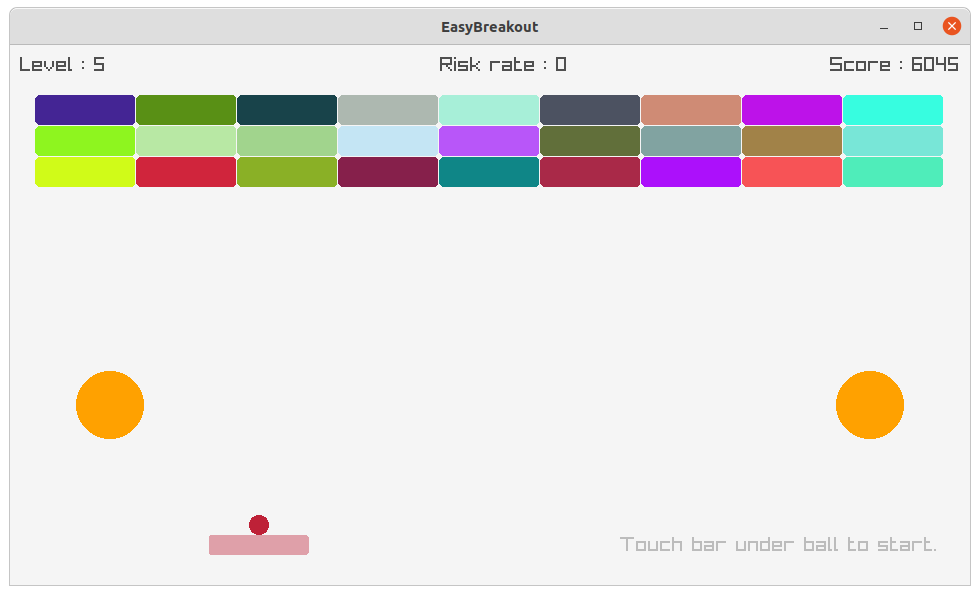
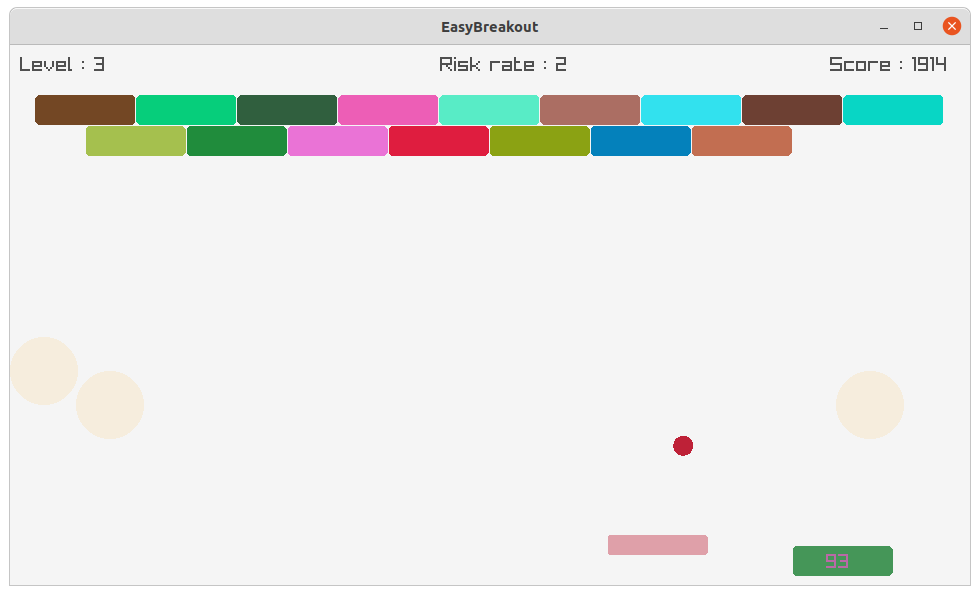
Add hit-back control and fix bugs

diff --git a/src/EasyBreakout.cpp b/src/EasyBreakout.cpp
@@ -58,7 +58,8 @@ int main(void)
     const Sound button_sound = LoadSound(button_sound_file_name);
     const Sound hit_bar_sound = LoadSound(hit_bar_sound_file_name);     // Load hitting bar audio file
     const Sound hit_block_sound = LoadSound(hit_block_sound_file_name); // Load hitting block audio file
-    SetSoundVolume(hit_bar_sound, 0.5f);
+    SetMasterVolume(0.1f);
+    // SetSoundVolume(hit_bar_sound, 0.1f);
     // Music background_sound = LoadMusicStream("./resources/audio/background.wav");  // Load background sound audio file
     // background_sound.looping = true;
     // SetMusicVolume(background_sound, BACKGROUND_SOUND_VOLUMN);
@@ -193,15 +194,22 @@ void UpdateDrawFrame()
         if (IsKeyDown(KEY_ESCAPE))
             player->set_state(kIntro);
 
+        bool has_gesture = false; // For mobile device
+
         // Moving playing bat
         if (WindowManager::IsMobile())
         {
             hud->set_last_gesture(hud->current_gesture());
             hud->set_current_gesture(GetGestureDetected());
-            if (hud->current_gesture() != hud->last_gesture() && (hud->current_gesture() == GESTURE_TAP || hud->current_gesture() == GESTURE_HOLD))
+            if (hud->current_gesture() != hud->last_gesture() && (hud->current_gesture() == GESTURE_TAP || hud->current_gesture() == GESTURE_HOLD || hud->current_gesture() == GESTURE_DOUBLETAP || hud->current_gesture() == GESTURE_DRAG))
             {
-                playingBar->Move(*hud);
+                has_gesture = true;
             }
+        }
+
+        if (WindowManager::IsMobile() && has_gesture)
+        {
+            playingBar->Move(*hud);
         }
         else
         {
@@ -240,7 +248,16 @@ void UpdateDrawFrame()
         if (ball->IsCollided(play_bar_shape) && !ball->is_held())
         {
             ball->PlayHitBarSound();
-            ball->Collide(play_bar_shape, level->get_level_num());
+
+            // Hit back in the same direction
+            if (WindowManager::IsMobile() && has_gesture)
+            {
+                ball->Collide(*hud, play_bar_shape, level->get_level_num());
+            }
+            else
+            {
+                ball->Collide(play_bar_shape, level->get_level_num());
+            }
         }
 
         // When the ball hits blocks

diff --git a/src/HUD.h b/src/HUD.h
@@ -12,28 +12,43 @@
 
 #include "raylib.h"
 
-#include "TouchPoint.h"
+#include "ControlPoint.h"
+
+inline Vector2 left_control_position()
+{
+	return (Vector2){100 * WindowManager::scale().x, WindowManager::window_size().height - WindowManager::window_size().height / 3.0f};
+}
+
+inline Vector2 right_control_position()
+{
+	return (Vector2){WindowManager::window_size().width - 100 * WindowManager::scale().x, WindowManager::window_size().height - WindowManager::window_size().height / 3.0f};
+}
+
+inline Vector2 hit_back_control_position()
+{
+	return (Vector2){ControlPoint::kDefaultRadius * WindowManager::scale().x, WindowManager::window_size().height - WindowManager::window_size().height / 3.0f - ControlPoint::kDefaultRadius * WindowManager::scale().x};
+}
 
 class HUD
 {
 public:
-	HUD();
-
 	int current_gesture() { return current_gesture_; }
 	int last_gesture() { return last_gesture_; }
-	const TouchPoint &left_touch_point() const { return left_touch_point_; }
-	const TouchPoint &right_touch_point() const { return right_touch_point_; }
+	const ControlPoint &left_control() const { return left_control_; }
+	const ControlPoint &right_control() const { return right_control_; }
+	const ControlPoint &hit_back_control() const { return hit_back_control_; }
 	void set_current_gesture(int gesture) { current_gesture_ = gesture; }
 	void set_last_gesture(int gesture) { current_gesture_ = gesture; }
 
-	bool IsTouchPointTouched(const TouchPoint &tp) const;
+	bool IsControlPointTouched(const ControlPoint &tp) const;
 	void Draw();
 
 private:
 	int current_gesture_ = GESTURE_NONE;
 	int last_gesture_ = GESTURE_NONE;
-	TouchPoint left_touch_point_;
-	TouchPoint right_touch_point_;
+	ControlPoint left_control_ = ControlPoint(left_control_position());			// Move to left
+	ControlPoint right_control_ = ControlPoint(right_control_position());		// Move to right
+	ControlPoint hit_back_control_ = ControlPoint(hit_back_control_position()); // Hit ball back to the same direction
 };
 
 #endif // HUD_H_

diff --git a/src/HUD.cpp b/src/HUD.cpp
@@ -7,13 +7,7 @@
 
 #include "HUD.h"
 
-HUD::HUD()
-{
-    left_touch_point_.set_position((Vector2){100 * WindowManager::scale().x, WindowManager::window_size().height - WindowManager::window_size().height / 3.0f});
-    right_touch_point_.set_position((Vector2){WindowManager::window_size().width - 100 * WindowManager::scale().x, WindowManager::window_size().height - WindowManager::window_size().height / 3.0f});
-}
-
-bool HUD::IsTouchPointTouched(const TouchPoint &tp) const
+bool HUD::IsControlPointTouched(const ControlPoint &tp) const
 {
     const Vector2 position = tp.get_position();
     return GetTouchX() >= position.x - tp.get_shape().get_radius() && GetTouchX() <= position.x + tp.get_shape().get_radius() && GetTouchY() >= position.y - tp.get_shape().get_radius() && GetTouchY() <= position.y + tp.get_shape().get_radius() ? true : false;
@@ -21,7 +15,8 @@ bool HUD::IsTouchPointTouched(const TouchPoint &tp) const
 
 void HUD::Draw()
 {
-    // Draw touch points
-    left_touch_point_.Draw();
-    right_touch_point_.Draw();
+    // Draw control points
+    hit_back_control_.Draw();
+    left_control_.Draw();
+    right_control_.Draw();
 }

diff --git a/src/ControlPoint.cpp b/src/ControlPoint.cpp
@@ -1,0 +1,39 @@
+/*
+ * ControlPoint.cpp
+ *
+ *  Created on: Oct. 07, 2023
+ *      Author: Dong Won Kim
+ */
+
+#include "ControlPoint.h"
+
+const Color ControlPoint::kDefaultColor = Fade(ORANGE, 0.1f);
+
+ControlPoint::ControlPoint() : GraphicsEntity<Circle>(circle(), (Vector2){0.0f, 0.0f}), color(kDefaultColor)
+{
+    auto shape = get_shape();
+    set_shape(Scale(std::move(shape)));
+}
+
+ControlPoint::ControlPoint(const Vector2 &position) : GraphicsEntity<Circle>(circle(), position), color(kDefaultColor)
+{
+    auto shape = get_shape();
+    set_shape(Scale(std::move(shape)));
+}
+
+ControlPoint::ControlPoint(const Color &color, float radius, const Vector2 &position) : GraphicsEntity<Circle>(circle(radius), position), color(color)
+{
+    auto shape = get_shape();
+    set_shape(Scale(std::move(shape)));
+}
+
+Circle ControlPoint::Scale(Circle &&circle)
+{
+    circle.set_radius(circle.get_radius() * WindowManager::scale().x);
+    return std::move(circle);
+}
+
+void ControlPoint::Draw()
+{
+    DrawCircleV(get_position(), this->get_shape().get_radius(), color);
+}

diff --git a/src/WindowManager.h b/src/WindowManager.h
@@ -69,12 +69,13 @@ public:
 		height = height > kWindowMaxHeight ? kWindowMaxHeight : height;
 		return (Size){width, height};
 	}
-	static const Vector2 scale() { return (Vector2){kWindowWidth / 960.0f, kWindowHeight / 540.0f}; }
+	constexpr static Vector2 scale() { return (Vector2){kWindowWidth / 960.0f, kWindowHeight / 540.0f}; }
 #else
 	static const Vector2 scale() { return kScale; }
 #endif
-	static const Size window_size() { return (Size){kWindowWidth, kWindowHeight}; }
-	static const bool IsMobile() { return kWindowWidth < 640 ? true : false; }
+	constexpr static Size window_size() { return (Size){kWindowWidth, kWindowHeight}; }
+	constexpr static bool IsMobile() { return kWindowWidth <= 800 ? true : false; }
+	// static const bool IsMobile() { return true; }
 	static void DisplayText(const DisplayArea &display_area, const char *text, int pos_x, int pos_y, int font_size, const Color &color);
 
 private:

diff --git a/src/ControlPoint.h b/src/ControlPoint.h
@@ -1,0 +1,44 @@
+/*
+ * ControlPoint.h
+ *
+ *  Created on: Oct. 07, 2023
+ *      Author: Dong Won Kim
+ */
+
+#ifndef CONTROL_POINT_H_
+#define CONTROL_POINT_H_
+
+#include "raylib.h"
+
+#include "GraphicsEntity.h"
+#include "Circle.h"
+
+class ControlPoint : public GraphicsEntity<Circle>
+{
+public:
+    constexpr static float kDefaultRadius = 34.0f; // Control point radius
+
+    ControlPoint();
+    ControlPoint(const Vector2 &position);
+    ControlPoint(const Color &color, float radius, const Vector2 &position);
+
+    void Draw() override;
+    Circle Scale(Circle &&shape) override;
+
+private:
+    const static Color kDefaultColor;
+
+    Color color;
+
+    static Circle circle()
+    {
+        return std::move(Circle(kDefaultRadius));
+    }
+
+    static Circle circle(float radius)
+    {
+        return std::move(Circle(radius));
+    }
+};
+
+#endif // CONTROL_POINT_H_

diff --git a/src/Ball.h b/src/Ball.h
@@ -16,6 +16,7 @@
 #include "WindowManager.h"
 #include "MovingEntity.h"
 #include "GraphicsEntity.h"
+#include "HUD.h"
 #include "Circle.h"
 #include "Block.h"
 
@@ -50,8 +51,12 @@ public:
 
 	// Checking collision with blocks and returning the block number hit, otherwise returning -1
 	int CollidedBlock(Block *blocks, int number_of_blocks);
-	void Collide(const Rectangle &rec, int level_num); // Colliding with playing bar
-	void PlayHitBarSound() { PlaySound(hit_bar_sound); }
+	void Collide(const Rectangle &rec, int level_num);				   // Colliding with playing bar
+	void Collide(const HUD &hud, const Rectangle &rec, int level_num); // Colliding with playing bar for mobile
+	void PlayHitBarSound()
+	{
+		PlaySound(hit_bar_sound);
+	}
 	void PlayHitBlockSound() { PlaySound(hit_block_sound); }
 
 	Circle Scale(Circle &&shape) override;

diff --git a/src/Ball.cpp b/src/Ball.cpp
@@ -106,11 +106,28 @@ void Ball::Collide(const Rectangle &rec, const Vector2 &speed)
 }
 
 // Colliding with playing bar
+void Ball::Collide(const HUD &hud, const Rectangle &rec, int level_num)
+{
+	const auto speed = get_speed();
+
+	if (!held && hud.IsControlPointTouched(hud.hit_back_control())) // Hit back in the same direction
+	{
+		Collide(rec, (Vector2){speed.x * -1.0f, speed.y});
+	}
+	else
+	{
+		Collide(rec, (Vector2){RandomSpeedX(speed, level_num), speed.y});
+	}
+
+	enabled = true; // It is enabled again when it hits playing bar
+	risk_rate = 0;
+}
+
 void Ball::Collide(const Rectangle &rec, int level_num)
 {
 	const auto speed = get_speed();
 
-	if (!held && IsKeyDown(KEY_SPACE))
+	if (!held && IsKeyDown(KEY_SPACE)) // Hit back in the same direction
 	{
 		Collide(rec, (Vector2){speed.x * -1.0f, speed.y});
 	}

diff --git a/src/Button.h b/src/Button.h
@@ -47,7 +47,7 @@ private:
     ButtonState state = kNormal;
     bool activated = false;
 
-    static float frame_height(const Texture2D &button)
+    constexpr static float frame_height(const Texture2D &button)
     {
         return (float)button.height / kNumberOfFrames;
     }
@@ -57,7 +57,7 @@ private:
         return (Rectangle){WindowManager::window_size().width / 2 + pos_x * WindowManager::scale().x, WindowManager::window_size().height / 2 - height / 2, width, height};
     }
 
-    static Rectangle rectangle(float width, float height, const Vector2 &position)
+    constexpr static Rectangle rectangle(float width, float height, const Vector2 &position)
     {
         return (Rectangle){position.x, position.y, width, height};
     }

diff --git a/src/PlayingBar.cpp b/src/PlayingBar.cpp
@@ -42,13 +42,13 @@ void PlayingBar::Move(const HUD &hud)
 {
 	auto pos_x = get_position_x();
 
-	if (hud.IsTouchPointTouched(hud.left_touch_point()) && pos_x > 0.0f)
+	if (hud.IsControlPointTouched(hud.left_control()) && pos_x > 0.0f)
 	{
 		pos_x -= get_speed_x();
 		set_position_x(pos_x);
 	}
 
-	if (hud.IsTouchPointTouched(hud.right_touch_point()) && pos_x < (WindowManager::window_size().width - kPlayingBarSize.width * WindowManager::scale().x))
+	if (hud.IsControlPointTouched(hud.right_control()) && pos_x < (WindowManager::window_size().width - kPlayingBarSize.width * WindowManager::scale().x))
 	{
 		pos_x += get_speed_x();
 		set_position_x(pos_x);

diff --git a/src/Button.cpp b/src/Button.cpp
@@ -4,6 +4,7 @@
  *  Created on: Sep. 26, 2023
  *      Author: Dong Won Kim
  */
+
 #include "Button.h"
 
 Button::Button(const Texture2D &button, float pos_x) : GraphicsEntity<Rectangle>(rectangle((float)button.width, frame_height(button), pos_x), position(frame_height(button), pos_x)), button(button), source_rectangle((Rectangle){0, 0, (float)button.width, frame_height(button)})

diff --git a/src/RoundedRect.h b/src/RoundedRect.h
@@ -31,7 +31,7 @@ private:
 	float roundness = 0.2f;
 	float segments = 0.0f;
 
-	static Vector2 position(const Rectangle &rec, float pos_y)
+	constexpr static Vector2 position(const Rectangle &rec, float pos_y)
 	{
 		return (Vector2){WindowManager::window_size().width / 2 - rec.width / 2, pos_y};
 	}
